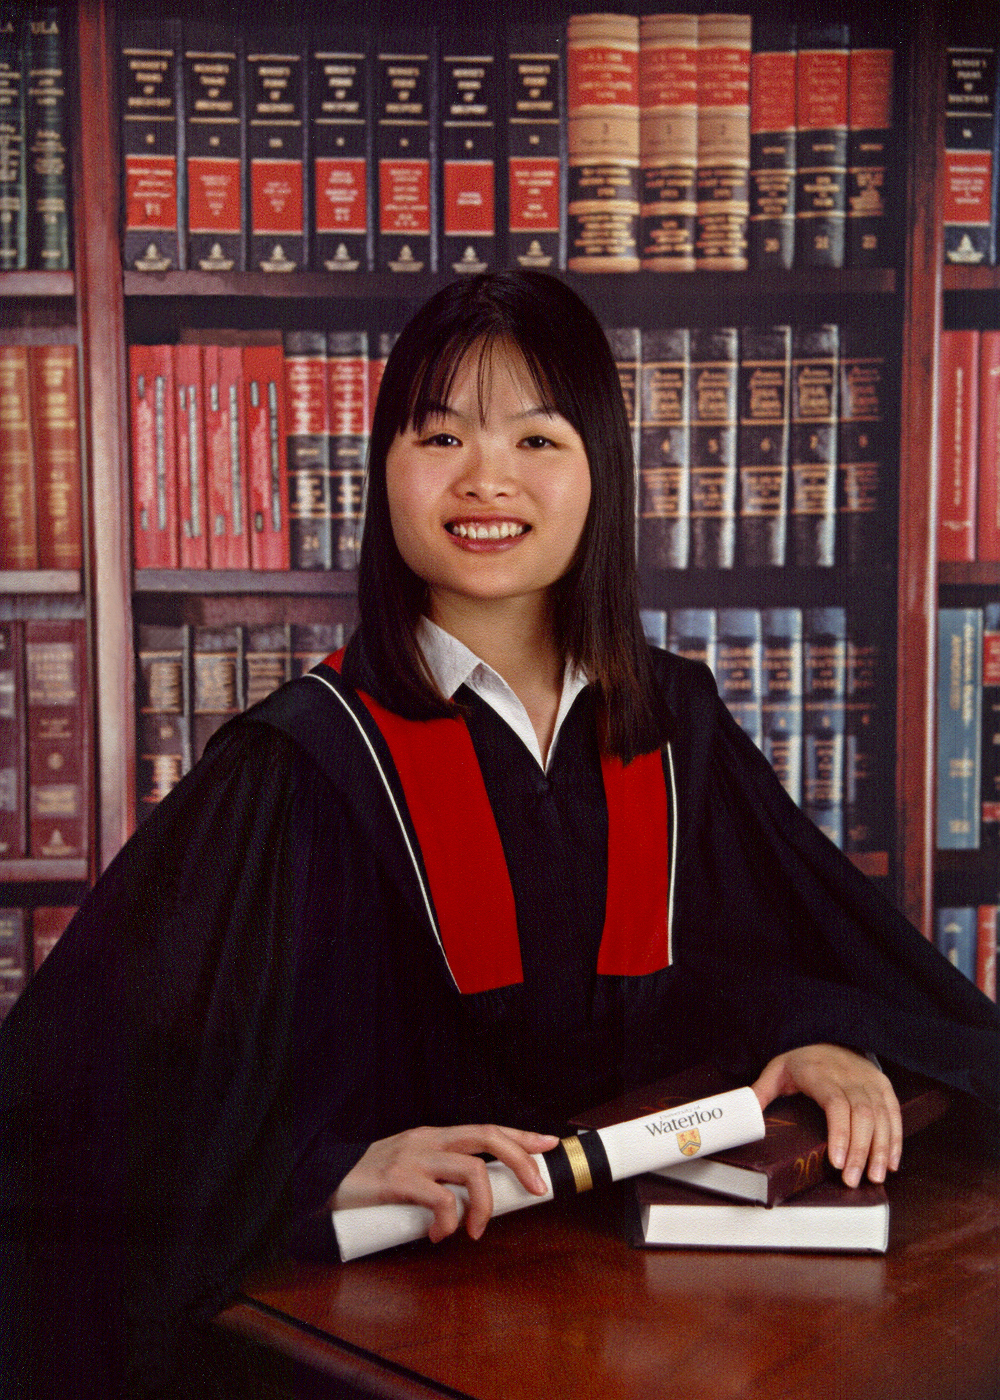
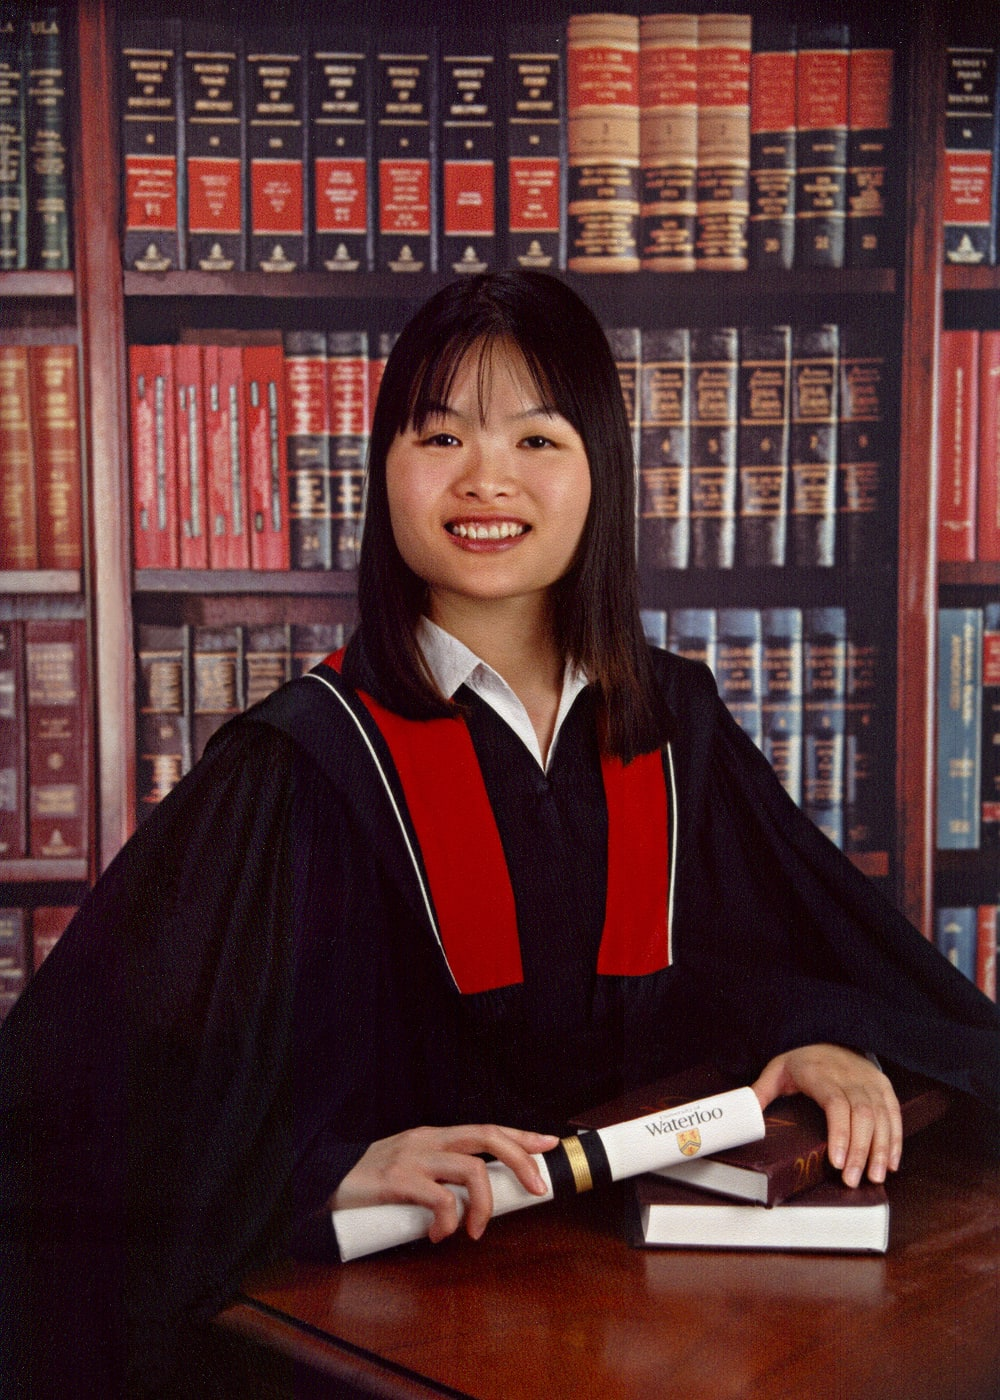
Minify images

Changed region(s): [[0.0, 0.7371, 0.031, 0.7986]]

diff --git a/themes/v1/layouts/partials/head.html b/themes/v1/layouts/partials/head.html
@@ -14,15 +14,24 @@
 	{{- end }}
 </title>
 
+<!-- Global site tag (gtag.js) - Google Analytics -->
+<script async src="https://www.googletagmanager.com/gtag/js?id=UA-129293030-1"></script>
+<script>
+	window.dataLayer = window.dataLayer || [];
+  function gtag(){dataLayer.push(arguments);}
+  gtag('js', new Date());
+  gtag('config', 'UA-129293030-1');
+</script>
+
 {{- $inServerMode	:= .Site.IsServer }}
 {{- $cssTarget		:= "css/style.css" }}
 {{- $cssOptions		:= cond ($inServerMode) (dict "targetPath" $cssTarget "enableSourceMap" true) (dict "targetPath" $cssTarget "outputStyle" "compressed") }}
 {{- $style			:= resources.Get "scss/index.scss" | toCSS $cssOptions }}
 <link rel="stylesheet" href="{{ $style.RelPermalink }}">
-<link href="https://fonts.googleapis.com/css?family=Fira+Mono|Inconsolata|Karla|Lobster" rel="stylesheet">
+<link href="https://fonts.googleapis.com/css?family=Inconsolata|Lobster" rel="stylesheet">
 
-<link rel="icon" type="image/png" sizes="32x32" href="{{ .Site.BaseURL }}images/favicon-32x32.png">
+<!-- <link rel="icon" type="image/png" sizes="32x32" href="{{ .Site.BaseURL }}images/favicon-32x32.png">
 <link rel="icon" type="image/png" sizes="16x16" href="{{ .Site.BaseURL }}images/favicon-16x16.png">
-<link rel="apple-touch-icon" sizes="180x180" href="{{ .Site.BaseURL}}images/apple-touch-icon.png">
+<link rel="apple-touch-icon" sizes="180x180" href="{{ .Site.BaseURL}}images/apple-touch-icon.png"> -->
 
 <link href="{{ .RSSLink }}" rel="alternate" type="application/rss+xml" title="{{ .Site.Title }}" />

diff --git a/themes/v1/layouts/partials/footer.html b/themes/v1/layouts/partials/footer.html
@@ -5,9 +5,4 @@
 {{ $js := resources.Get "js/index.js" }}
 {{ $javascript := $js | resources.Minify }}
 <script src="{{ $javascript.RelPermalink }}" />
-<script>(function(i,s,o,g,r,a,m){i['GoogleAnalyticsObject']=r;i[r]=i[r]||function(){
-(i[r].q=i[r].q||[]).push(arguments)},i[r].l=1*new Date();a=s.createElement(o),
-m=s.getElementsByTagName(o)[0];a.async=1;a.src=g;m.parentNode.insertBefore(a,m)
-})(window,document,'script','https://www.google-analytics.com/analytics.js','ga');
-ga('create', 'UA-88633013-1', 'auto');
-ga('send', 'pageview');</script>
+<script></script>

diff --git a/content/home/remembering.md b/content/home/remembering.md
@@ -9,7 +9,7 @@ Janet left a sizeable impact on the world. Below is a collection of photos, stor
 <center>
   <ul>
     <li><a href="/stories">Stories about Janet</a></li>
-    <li><a href="/janet">Janet's writing</a></li>
+    <li><a href="/janet">Janet's writings</a></li>
     <li><a href="/photos">Photos of Janet</a></li>
   </ul>
 </center>
